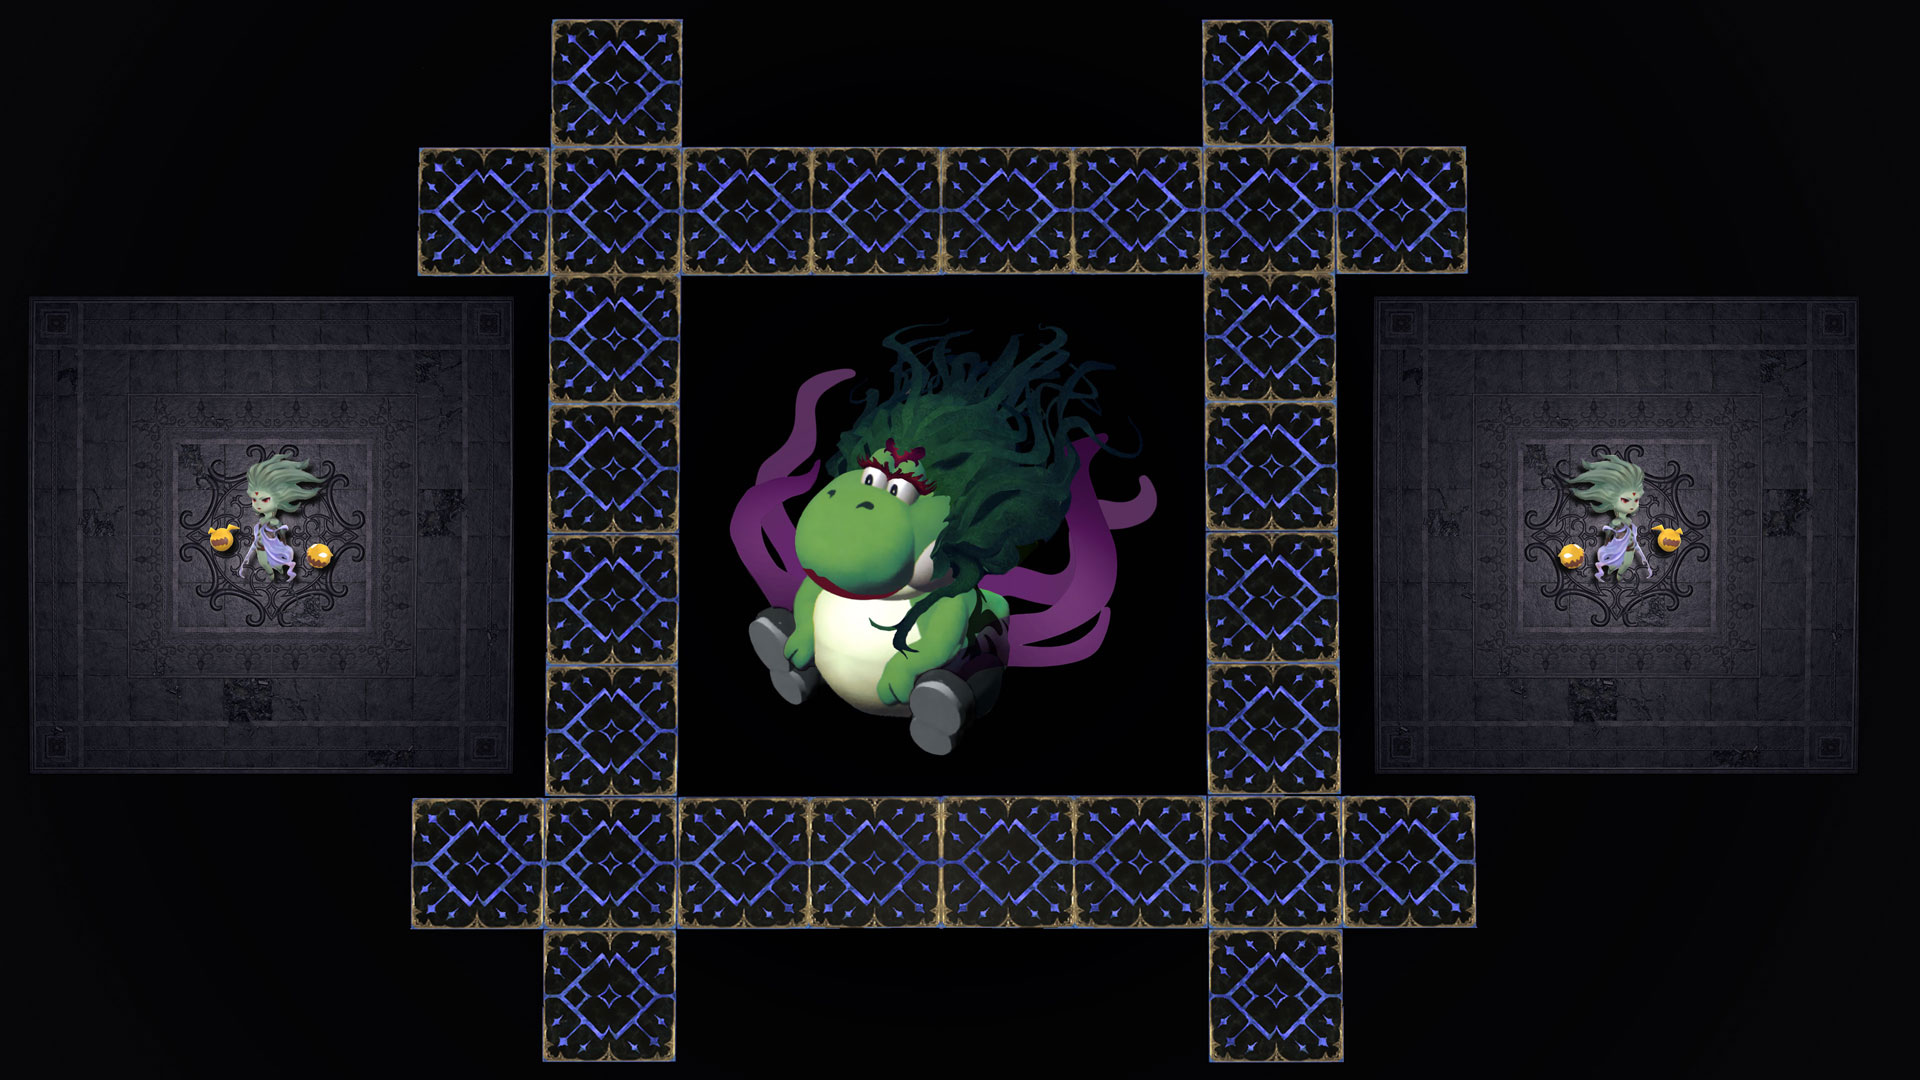
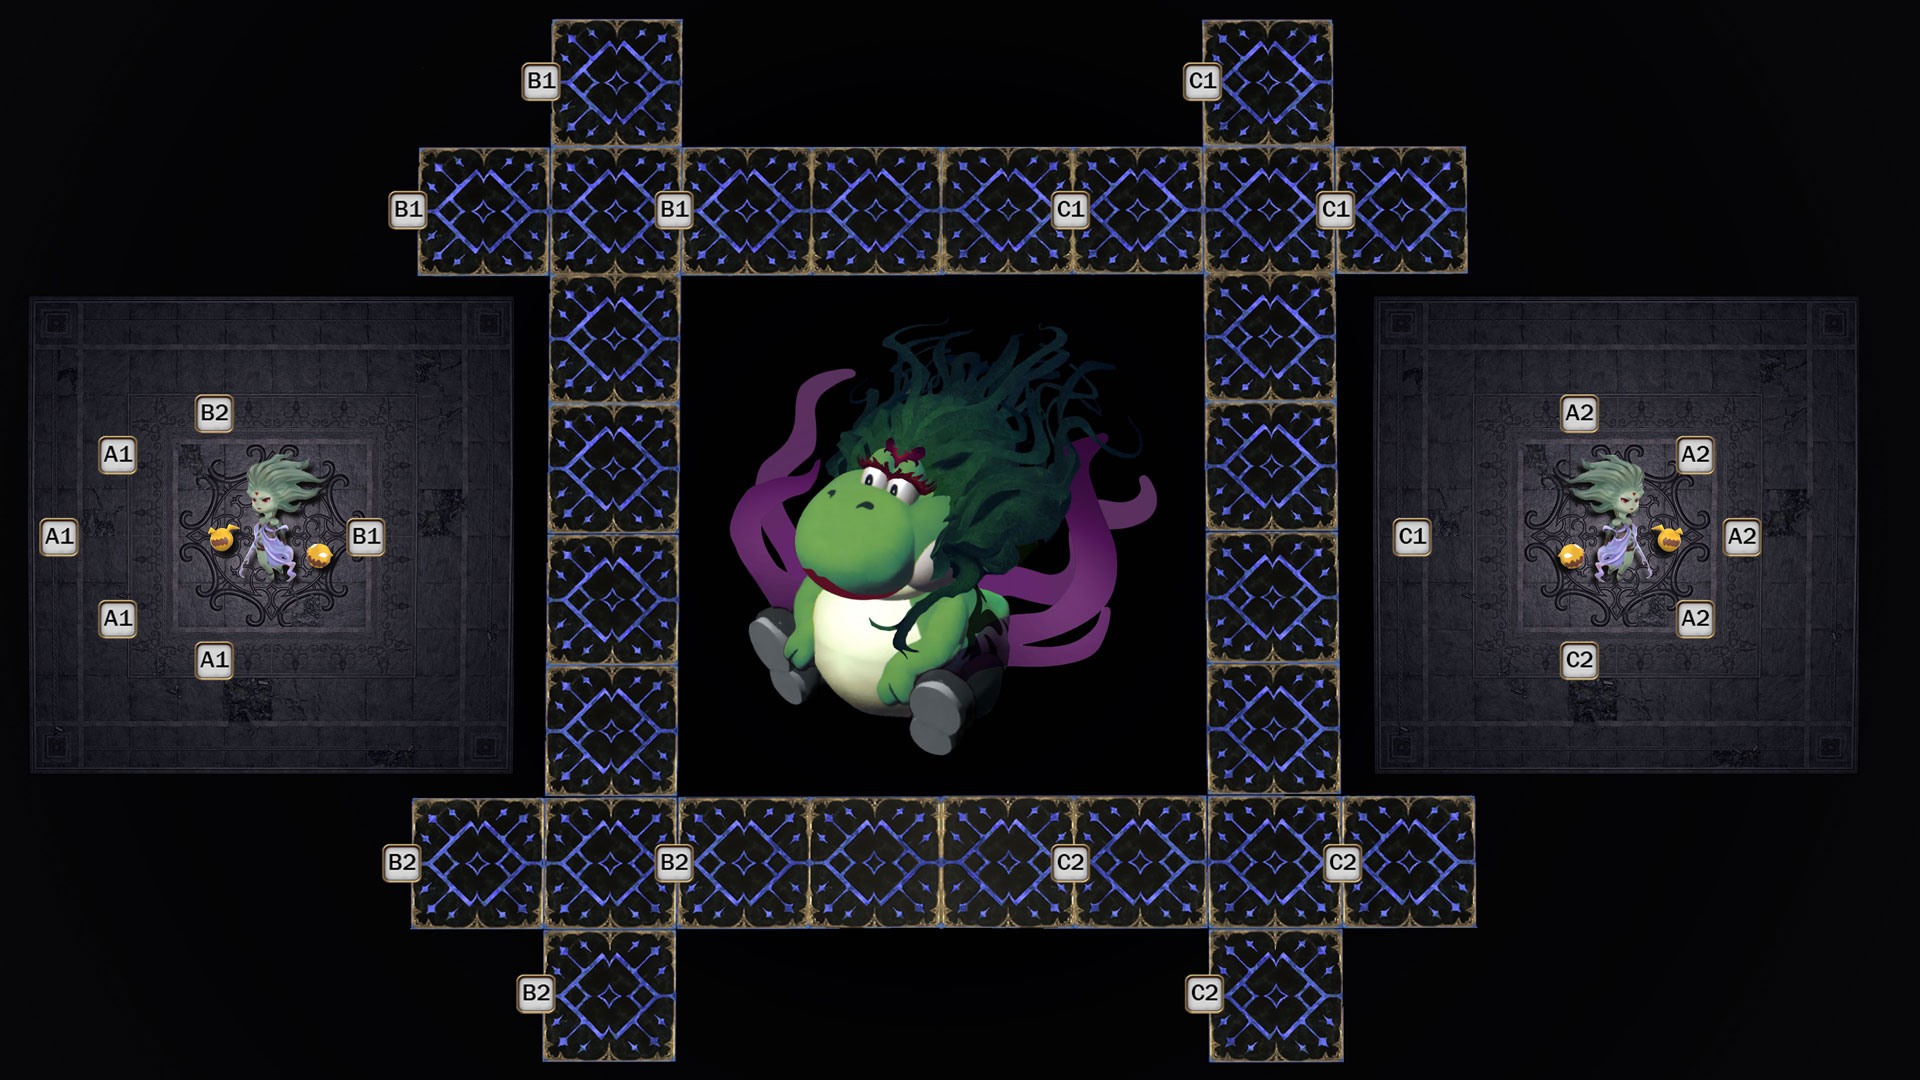
fix

diff --git a/index.html b/index.html
@@ -5,53 +5,119 @@
     <meta name="viewport" content="width=device-width, initial-scale=1.0">
     <title>CODCAR Arena Planner</title>
     <style>
-        body { text-align: center; font-family: Arial, sans-serif; }
+        body { text-align: center; font-family: Arial, sans-serif; position: relative; }
         canvas { border: 1px solid black; }
         .controls { margin-top: 10px; }
         .name-input { margin: 5px; }
+        .text-box {
+            position: absolute;
+            height: 24px;
+            background-color: white;
+            border: 2px solid black;
+            text-align: left;
+            padding-left: 5px;
+            transition: width 0.2s;
+            box-sizing: border-box;
+            width: 80px; /* Default width for placeholder */
+        }
+        .healer { border-color: #20b82b; color: #20b82b; }
+        .tank { border-color: #1864d6; color: #1864d6; }
+        .dps { border-color: #d61818; color: #d61818; }
+        #text-measure {
+            position: absolute;
+            visibility: hidden;
+            white-space: nowrap;
+            font-family: Arial, sans-serif;
+            font-size: 16px;
+        }
     </style>
 </head>
 <body>
-    <h1>FFXIV Arena Layout</h1>
-    <canvas id="arenaCanvas" width="600" height="600"></canvas>
+    <h1>CODCAR Arena Planner</h1>
+    <div style="position: relative; display: inline-block;">
+        <canvas id="arenaCanvas" width="1920" height="1080"></canvas>
+        <!-- A1 DPS Boxes -->
+		<input type="text" class="text-box dps" style="left: 143px; top: 609px;" placeholder="DPS" oninput="resizeInput(this)">
+        <input type="text" class="text-box dps" style="left: 241px; top: 650px;" placeholder="DPS" oninput="resizeInput(this)">
+		<!-- A2 DPS Boxes -->
+	    <input type="text" class="text-box dps" style="left: 1607px; top: 403px;" placeholder="DPS" oninput="resizeInput(this)">
+        <input type="text" class="text-box dps" style="left: 1723px; top: 445px;" placeholder="DPS" oninput="resizeInput(this)">	
+        <!-- B1/B2 Platform DPS Boxes -->
+        <input type="text" class="text-box dps" style="left: 241px; top: 403px;" placeholder="DPS" oninput="resizeInput(this)">
+        <input type="text" class="text-box dps" style="left: 393px; top: 525px;" placeholder="DPS" oninput="resizeInput(this)">
+        <!-- C1/C2 Platform DPS Boxes -->
+        <input type="text" class="text-box dps" style="left: 1607px; top: 650px;" placeholder="DPS" oninput="resizeInput(this)">
+        <input type="text" class="text-box dps" style="left: 1439px; top: 527px;" placeholder="DPS" oninput="resizeInput(this)">
+		<!-- B1 Tile DPS Boxes -->
+        <input type="text" class="text-box dps" style="left: 567px; top: 72px;" placeholder="DPS" oninput="resizeInput(this)">
+		<!-- B2 Tile DPS Boxes -->
+        <input type="text" class="text-box dps" style="left: 563px; top: 983px;" placeholder="DPS" oninput="resizeInput(this)">
+		<!-- C1 Tile DPS Boxes -->
+        <input type="text" class="text-box dps" style="left: 1230px; top: 72px;" placeholder="DPS" oninput="resizeInput(this)">
+		<!-- C2 Tile DPS Boxes -->
+        <input type="text" class="text-box dps" style="left: 1230px; top: 983px;" placeholder="DPS" oninput="resizeInput(this)">
+        
+        <!-- A1 Healer Box -->
+        <input type="text" class="text-box healer" style="left: 143px; top: 444px;" placeholder="HEALER" oninput="resizeInput(this)">
+		<!-- A2 Healer Box -->
+        <input type="text" class="text-box healer" style="left: 1723px; top: 607px;" placeholder="HEALER" oninput="resizeInput(this)">
+		<!-- B1 Healer Box -->
+        <input type="text" class="text-box healer" style="left: 434px; top: 199px;" placeholder="HEALER" oninput="resizeInput(this)">
+		<!-- B2 Healer Box -->
+        <input type="text" class="text-box healer" style="left: 428px; top: 852px;" placeholder="HEALER" oninput="resizeInput(this)">
+		<!-- C1 Healer Box -->
+        <input type="text" class="text-box healer" style="left: 1360px; top: 199px;" placeholder="HEALER" oninput="resizeInput(this)">
+		<!-- C2 Healer Box -->
+        <input type="text" class="text-box healer" style="left: 1367px; top: 852px;" placeholder="HEALER" oninput="resizeInput(this)">
+        
+        <!-- A1 Tank Box -->
+        <input type="text" class="text-box tank" style="left: 85px; top: 526px;" placeholder="TANK" oninput="resizeInput(this)">
+        <!-- A2 Tank Box -->		
+        <input type="text" class="text-box tank" style="left: 1767px; top: 526px;" placeholder="TANK" oninput="resizeInput(this)">
+		<!-- B1 Tank Box -->	
+        <input type="text" class="text-box tank" style="left: 700px; top: 199px;" placeholder="TANK" oninput="resizeInput(this)">
+		<!-- B2 Tank Box -->	
+        <input type="text" class="text-box tank" style="left: 700px; top: 852px;" placeholder="TANK" oninput="resizeInput(this)">
+		<!-- C1 Tank Box -->	
+        <input type="text" class="text-box tank" style="left: 1095px; top: 199px;" placeholder="TANK" oninput="resizeInput(this)">
+		<!-- C2 Tank Box -->	
+        <input type="text" class="text-box tank" style="left: 1095px; top: 852px;" placeholder="TANK" oninput="resizeInput(this)">
+    </div>
     <div class="controls">
-        <label for="playerName">Enter Name:</label>
-        <input type="text" id="playerName" class="name-input">
-        <label for="symbol">Choose Symbol:</label>
-        <select id="symbol">
-            <option value="⚔">⚔</option>
-            <option value="🛡">🛡</option>
-            <option value="🔮">🔮</option>
-        </select>
-        <button onclick="placeName()">Place Name</button>
         <button onclick="exportImage()">Save Layout</button>
     </div>
+    <span id="text-measure"></span>
     <script>
         const canvas = document.getElementById("arenaCanvas");
         const ctx = canvas.getContext("2d");
         const arenaImage = new Image();
-        arenaImage.src = "arena.jpg"; // Replace with your actual image file
+        arenaImage.src = "arena.jpg"; // Ensure this path is correct and the image is in the repository
         
         arenaImage.onload = function() {
             ctx.drawImage(arenaImage, 0, 0, canvas.width, canvas.height);
         };
-        
-        function placeName() {
-            const name = document.getElementById("playerName").value;
-            const symbol = document.getElementById("symbol").value;
-            if (!name) return;
-            
-            // Example position (adjust based on role presets)
-            const x = 300; 
-            const y = 300; 
-            
-            ctx.fillStyle = "white";
-            ctx.fillRect(x - 30, y - 15, 100, 30);
-            ctx.fillStyle = "black";
-            ctx.fillText(symbol + " " + name, x, y);
+
+        function resizeInput(input) {
+            const textMeasure = document.getElementById('text-measure');
+            textMeasure.textContent = input.value || input.placeholder;
+            input.style.width = (textMeasure.offsetWidth + 10) + 'px'; // Add a bit of padding
         }
-        
+
         function exportImage() {
+            // Redraw the arena image
+            ctx.drawImage(arenaImage, 0, 0, canvas.width, canvas.height);
+
+            // Draw text boxes onto the canvas
+            const textBoxes = document.querySelectorAll('.text-box');
+            textBoxes.forEach(box => {
+                const x = parseInt(box.style.left, 10);
+                const y = parseInt(box.style.top, 10) + 16; // Adjust for text baseline
+                ctx.fillStyle = box.style.color;
+                ctx.font = '16px Arial';
+                ctx.fillText(box.value || box.placeholder, x, y);
+            });
+
+            // Export canvas
             const link = document.createElement("a");
             link.download = "arena_layout.png";
             link.href = canvas.toDataURL("image/png");
